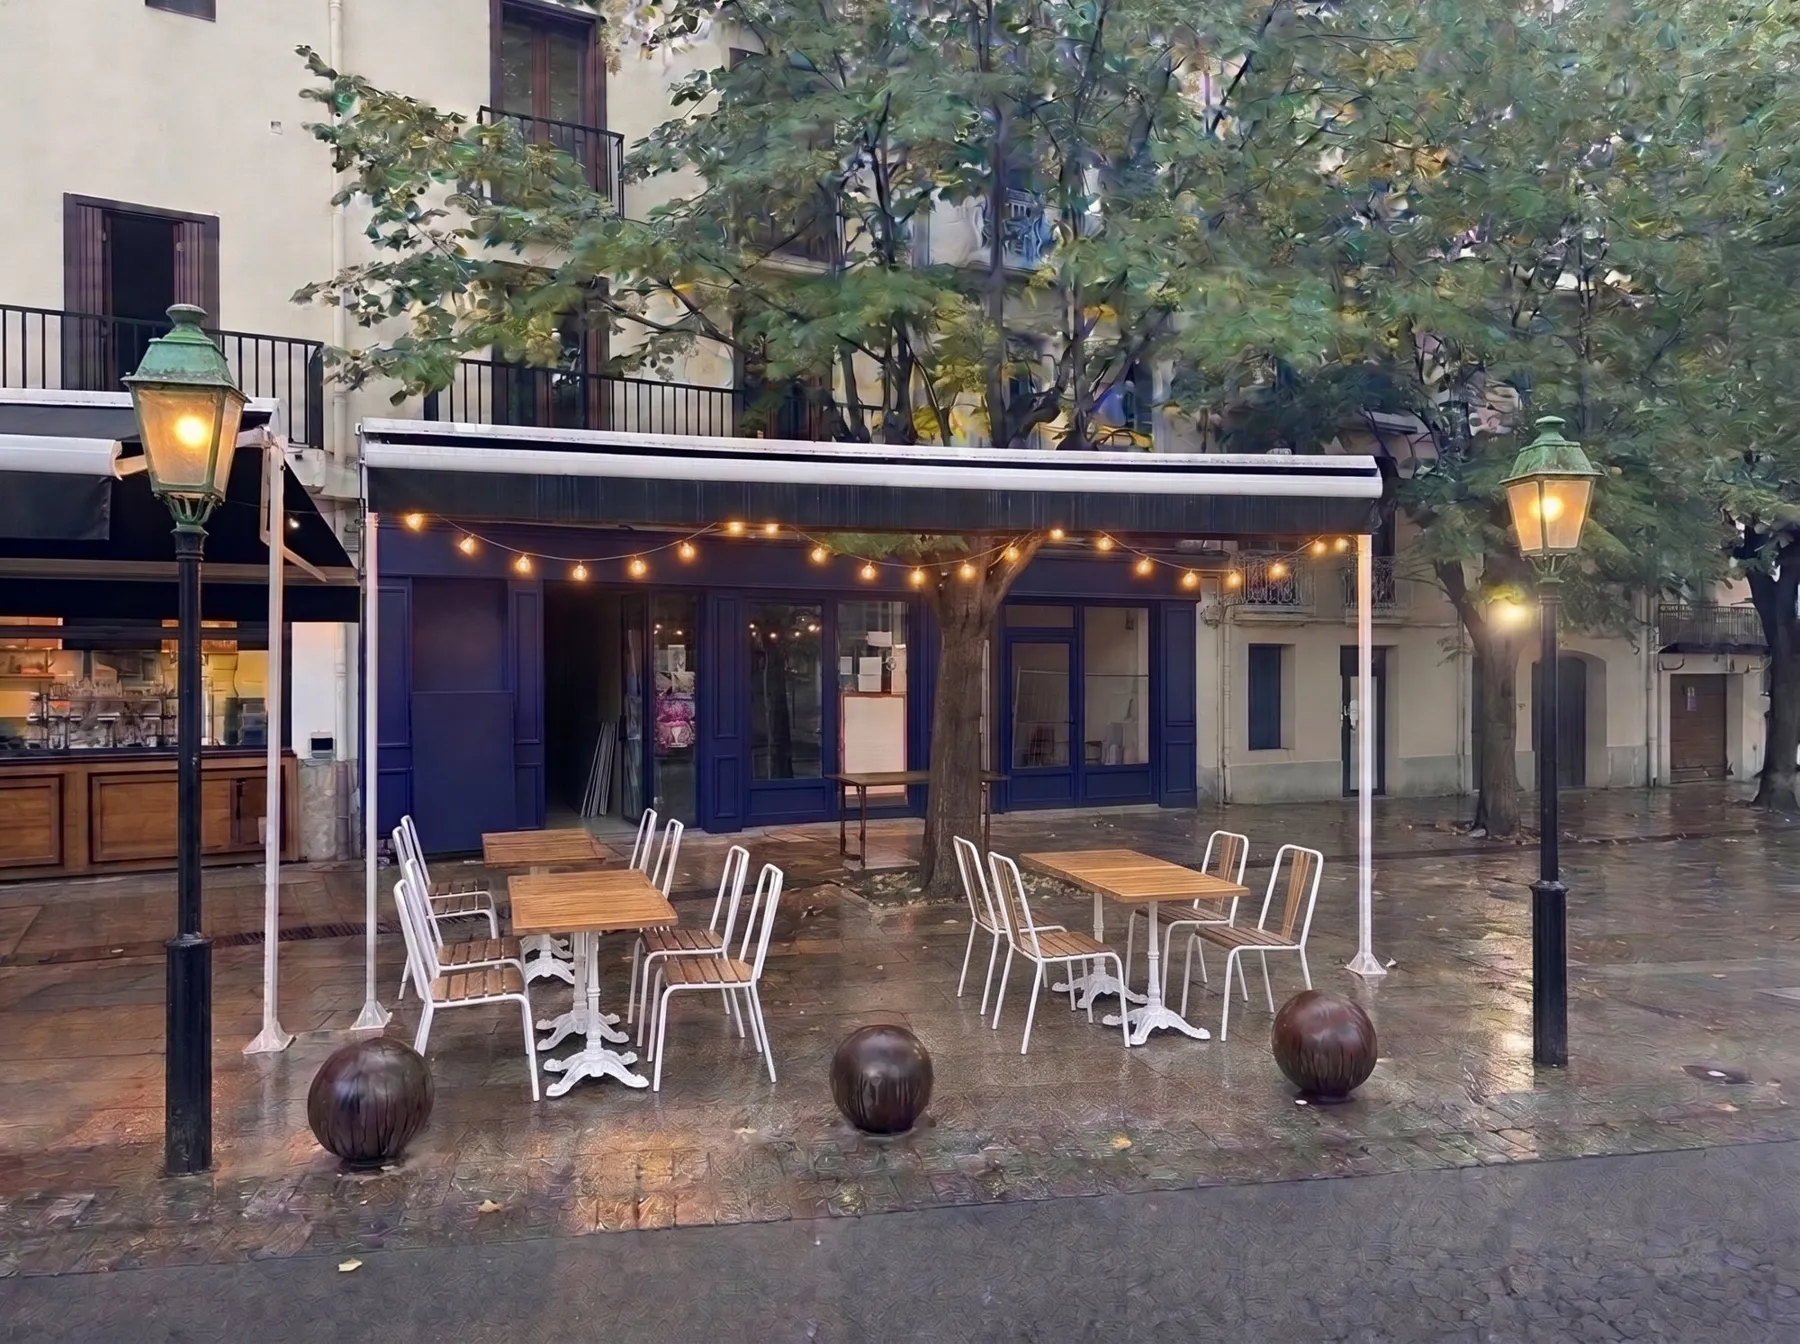
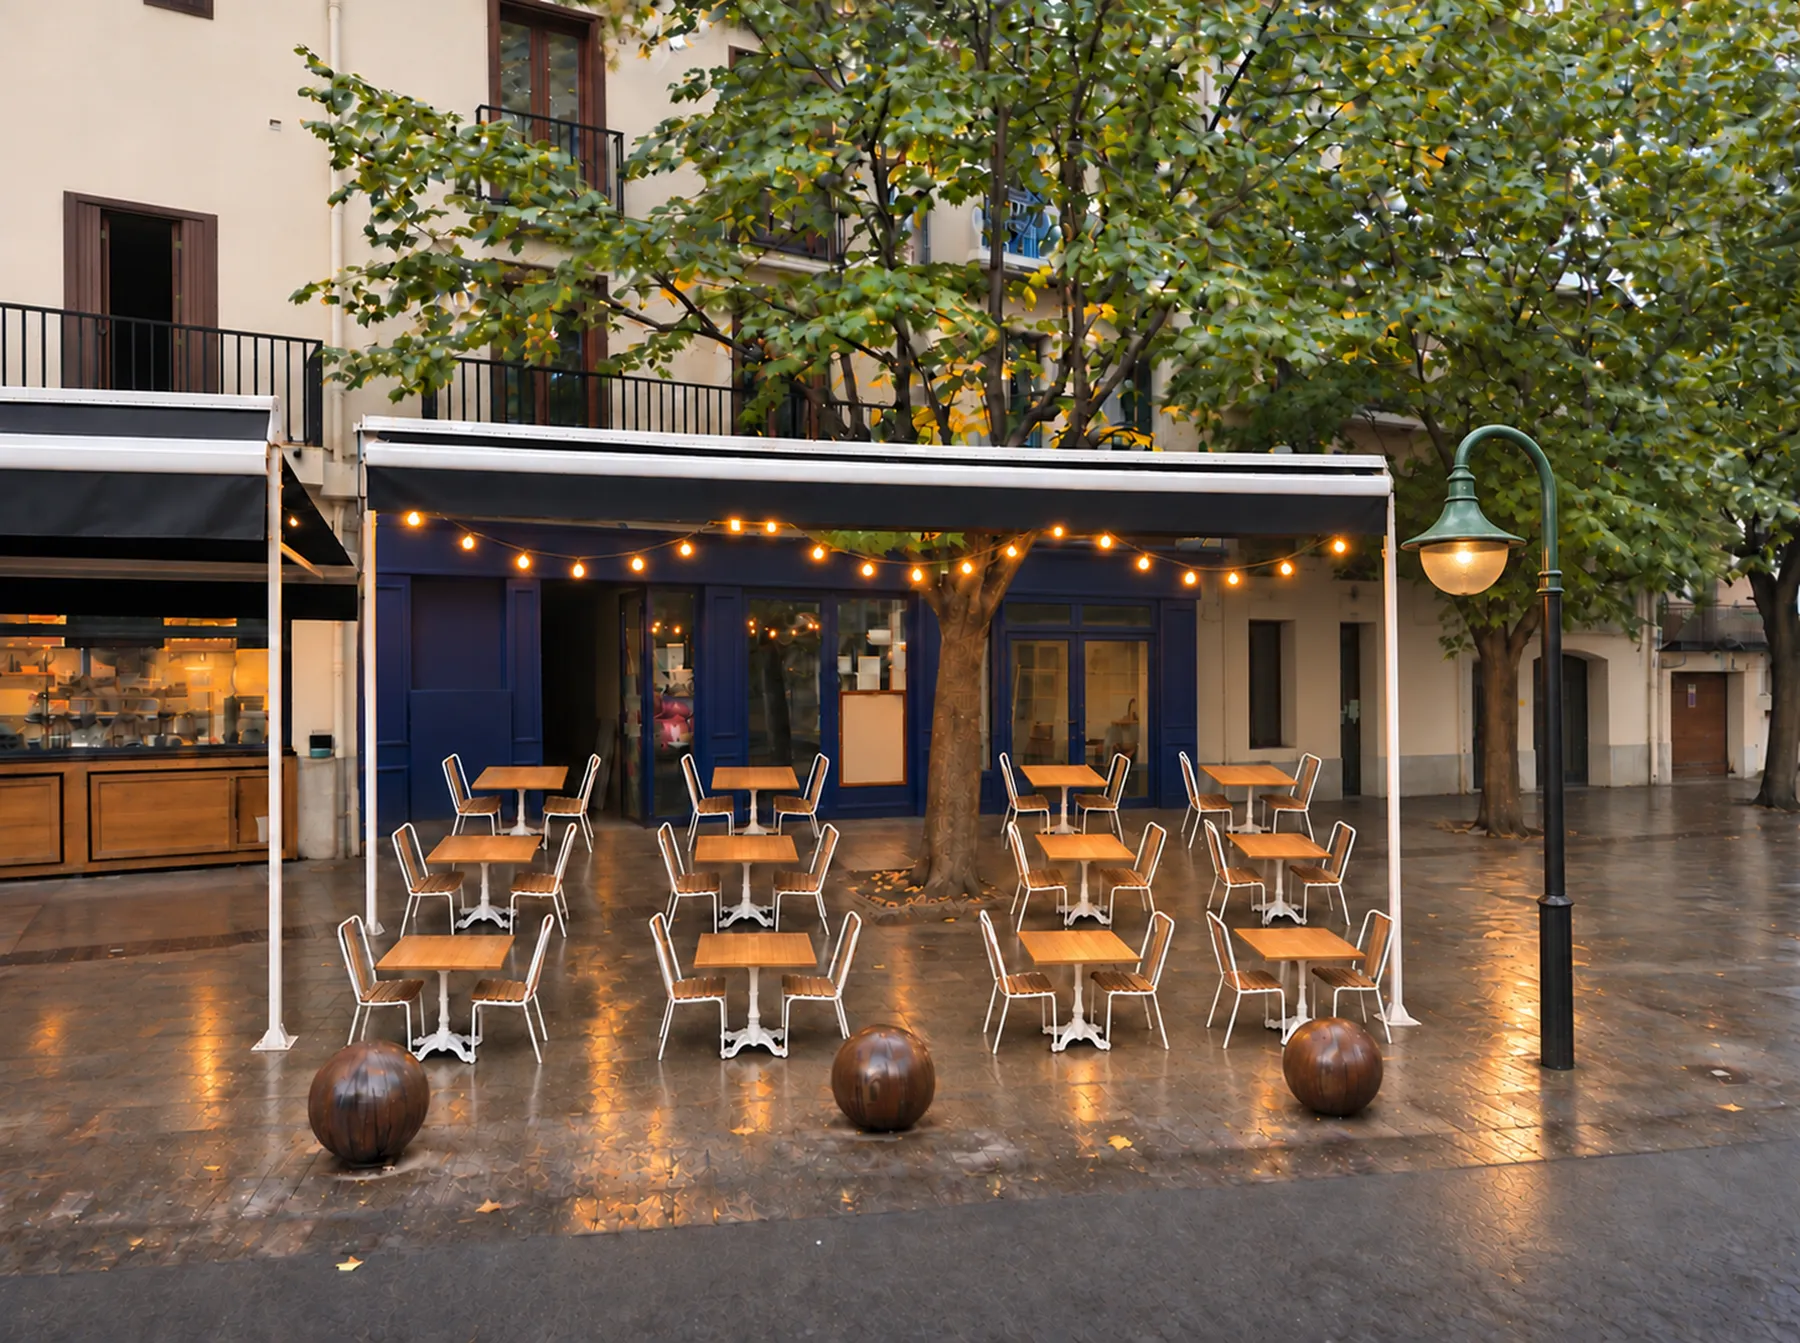
Xuixo : visite mise à jour avec les remarques du client (vues, luminaires, terrasse) (#7)
Claude-Session: https://claude.ai/code/session_01E2bACdZAZrrnxPoUpS4RQm

diff --git a/recorridos/xuixo/index.html b/recorridos/xuixo/index.html
@@ -116,19 +116,19 @@ const T='tour/';
 const ARROW='<svg viewBox="0 0 24 24"><path d="M8 4l8 8-8 8z"/></svg>';
 const SCENES={
   terrasse:{n:'1',name:'Terrasse',img:T+'terrasse.webp',hoy:T+'f05.webp',
-    text:'Façade en bleu cosmique Tollens EE105, store conservé, guirlandes et lampadaires. Sur le plan : 8 tables et 32 places dans la zone jaune tolérée, arbre et passage piétons dégagés.',
+    text:'Façade en bleu cosmique Tollens EE105, store conservé, guirlandes et votre lampadaire vert col de cygne à l’angle. Sur le plan : 19 tables et 38 places dans la zone jaune tolérée, arbre et passage piétons dégagés.',
     hs:[{x:47,y:50,to:'salle',label:'Entrer'}]},
   salle:{n:'2',name:'Salle et cuisine ouverte',img:T+'sala_noir.webp',alt:T+'sala_blanc.webp',hoy:T+'f19.webp',
-    text:'Pas de mur : on voit la braise depuis la salle. Trois comptoirs en portes anciennes sculptées, table haute, maillots rouge et or, têtes de lampadaires vertes récupérées. Comparez le plafond noir (recommandé) et le blanc.',
+    text:'Pas de mur : on voit la braise depuis la salle. Trois comptoirs en portes anciennes sculptées, table haute sous votre cloche verte récupérée (adaptée LED), maillots USAP, All Blacks et France. Comparez le plafond noir (retenu) et le blanc.',
     hs:[{x:52,y:42,to:'patio',label:'Vers le patio'},{x:14,y:70,to:'entree',label:'Se retourner'}]},
   entree:{n:'3',name:'Salle vers l’entrée',img:T+'sala_contre.webp',hoy:T+'f13.webp',
-    text:'Le comptoir et la cuisine vus depuis le patio : tabourets Tolix, écran sur le pilier, tables bistrot le long du mur de pierre et, au fond, le couloir qui mène à la place.',
+    text:'La salle vue depuis le patio : cuisine ouverte du bon côté, comptoirs à plateau zinc, table haute et sa cloche verte, écran, tables bistrot le long du mur de pierre et, au fond, le couloir qui mène à la place.',
     hs:[{x:52,y:47,to:'terrasse',label:'Vers la place'},{x:80,y:80,to:'salle',label:'Se retourner'}]},
   patio:{n:'4',name:'Patio sous la treille',img:T+'patio.webp',hoy:T+'f11.webp',
-    text:'La treille déjà installée, couverte de plantes. Écran pour les matchs, fléchettes, ardoises, deux tonneaux et les chaises Windsor blanches. Sur le plan : 50 places.',
+    text:'La treille couverte de plantes, vos chaises blanches et des tables en petits groupes. Écran, fléchettes, maillots All Blacks et France, deux tonneaux. En hauteur, hors de la végétation : le lampadaire cobra et deux projecteurs à grille. Sur le plan : 50 places.',
     hs:[{x:70,y:88,to:'soir',label:'Se retourner'},{x:28,y:88,to:'salle',label:'Retour à la salle'}]},
   soir:{n:'5',name:'Patio en soirée',img:T+'patio_contre.webp',hoy:T+'f_patio2.webp',
-    text:'Le même patio vu dans l’autre sens, à la tombée de la nuit : mur corten habillé de bois et de souvenirs, guirlandes allumées, climatiseurs voisins masqués par la végétation.',
+    text:'Le même patio à la tombée de la nuit, vers la façade et la porte de la cuisine. Les trois luminaires d’éclairage public sont fixés en hauteur sur la façade, à l’air libre et loin des plantes.',
     hs:[{x:70,y:88,to:'patio',label:'Se retourner'},{x:28,y:88,to:'salle',label:'Retour à la salle'}]}
 };
 const ORDER=['terrasse','salle','entree','patio','soir'];
